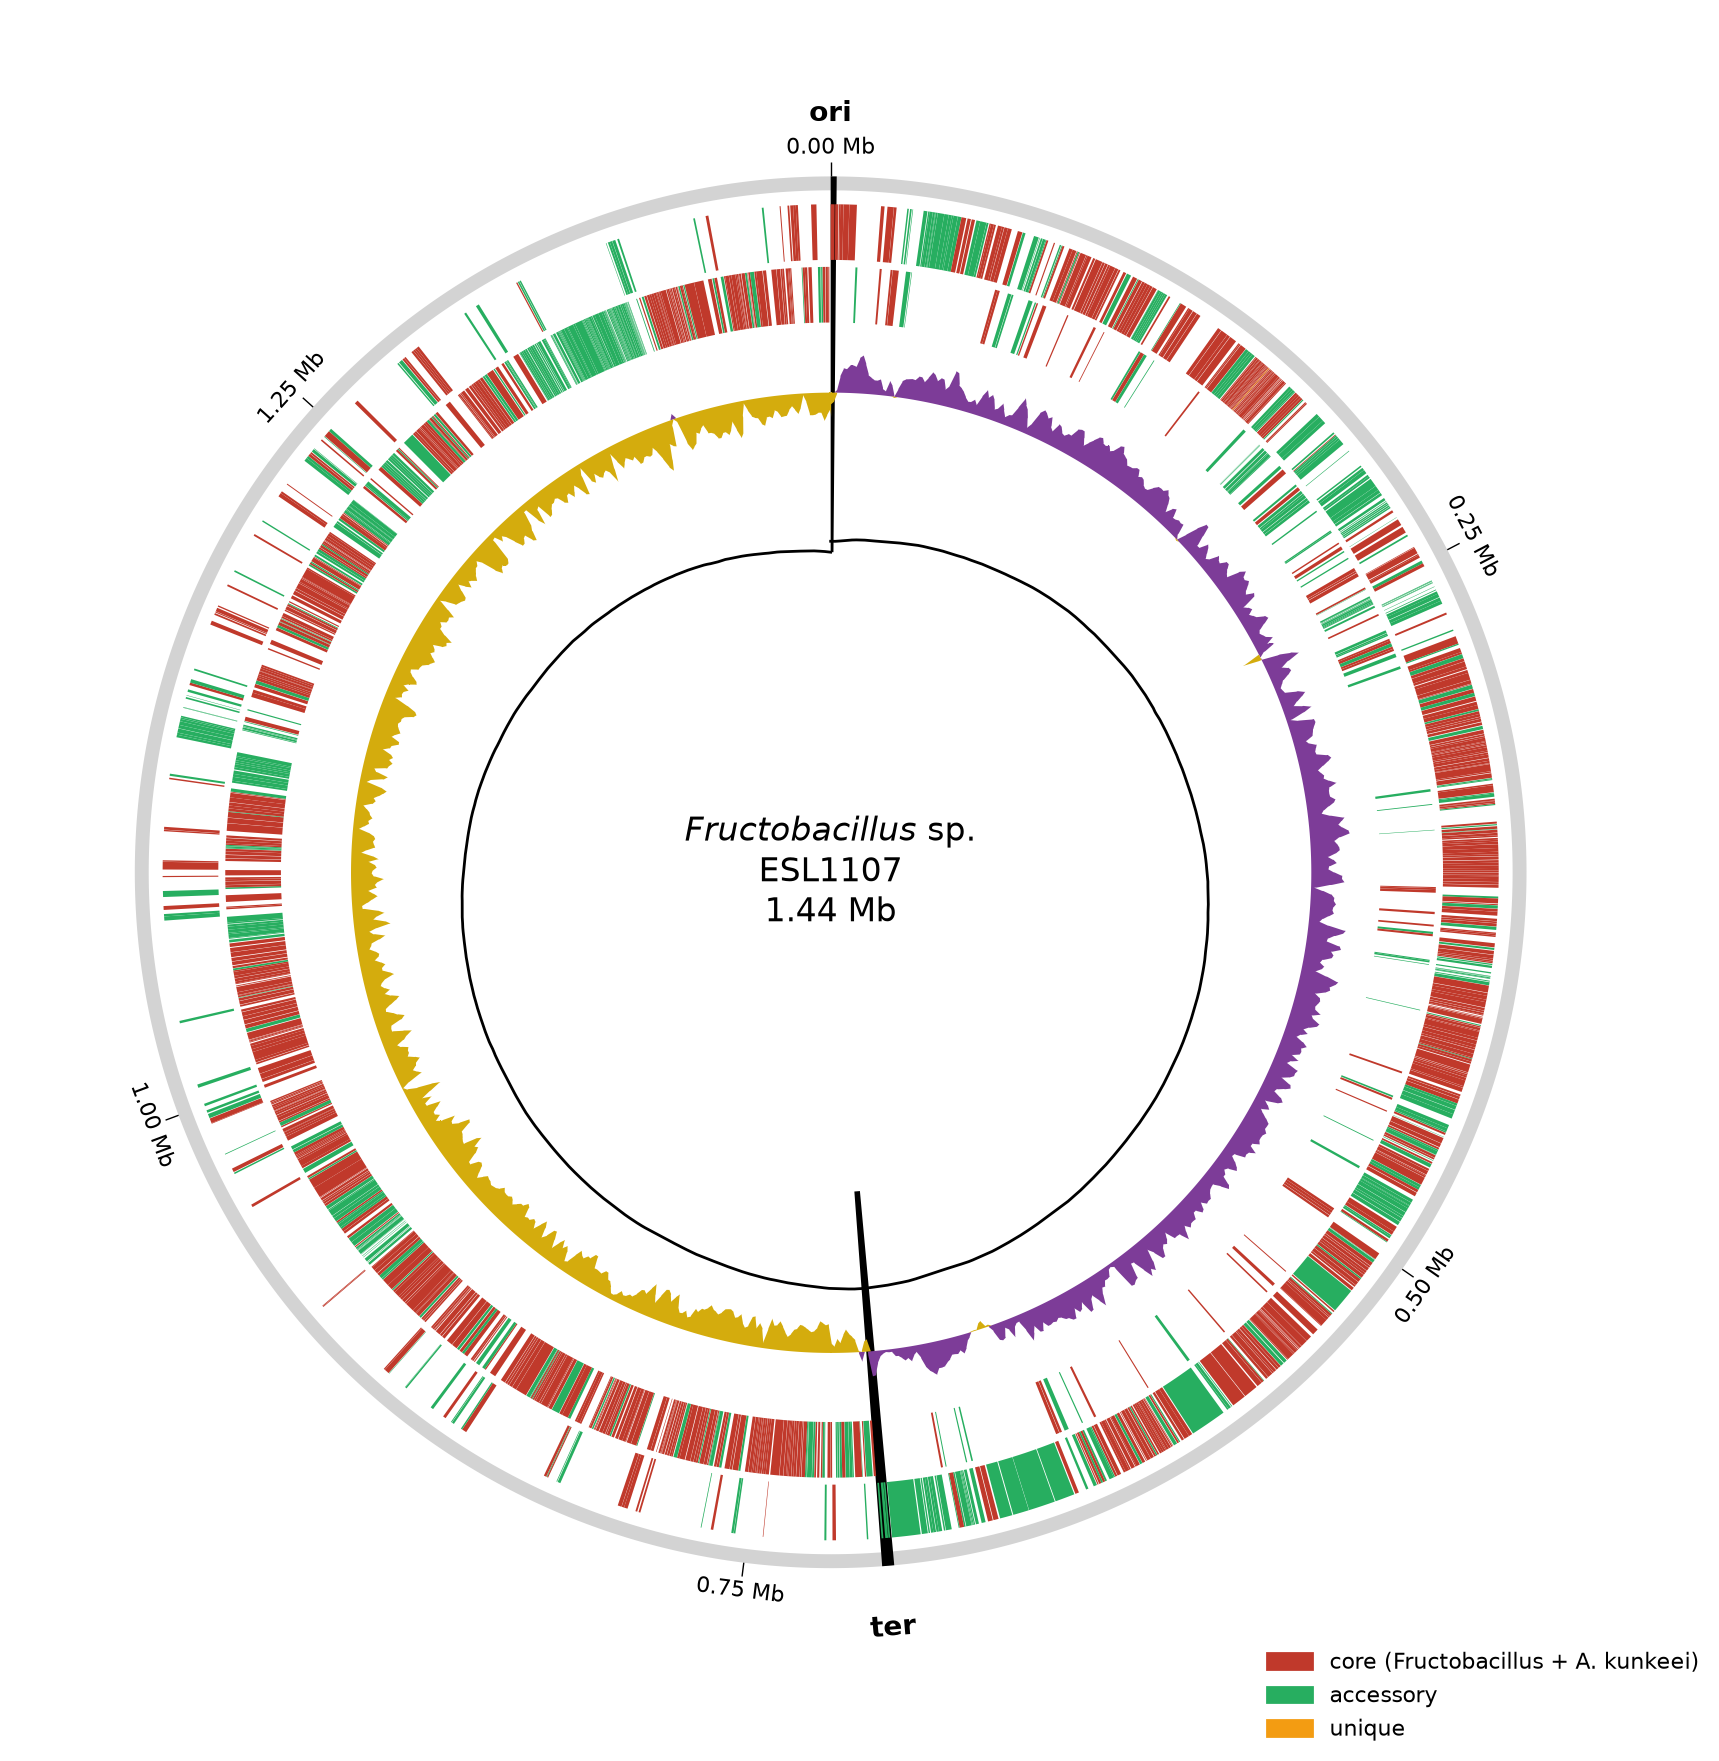
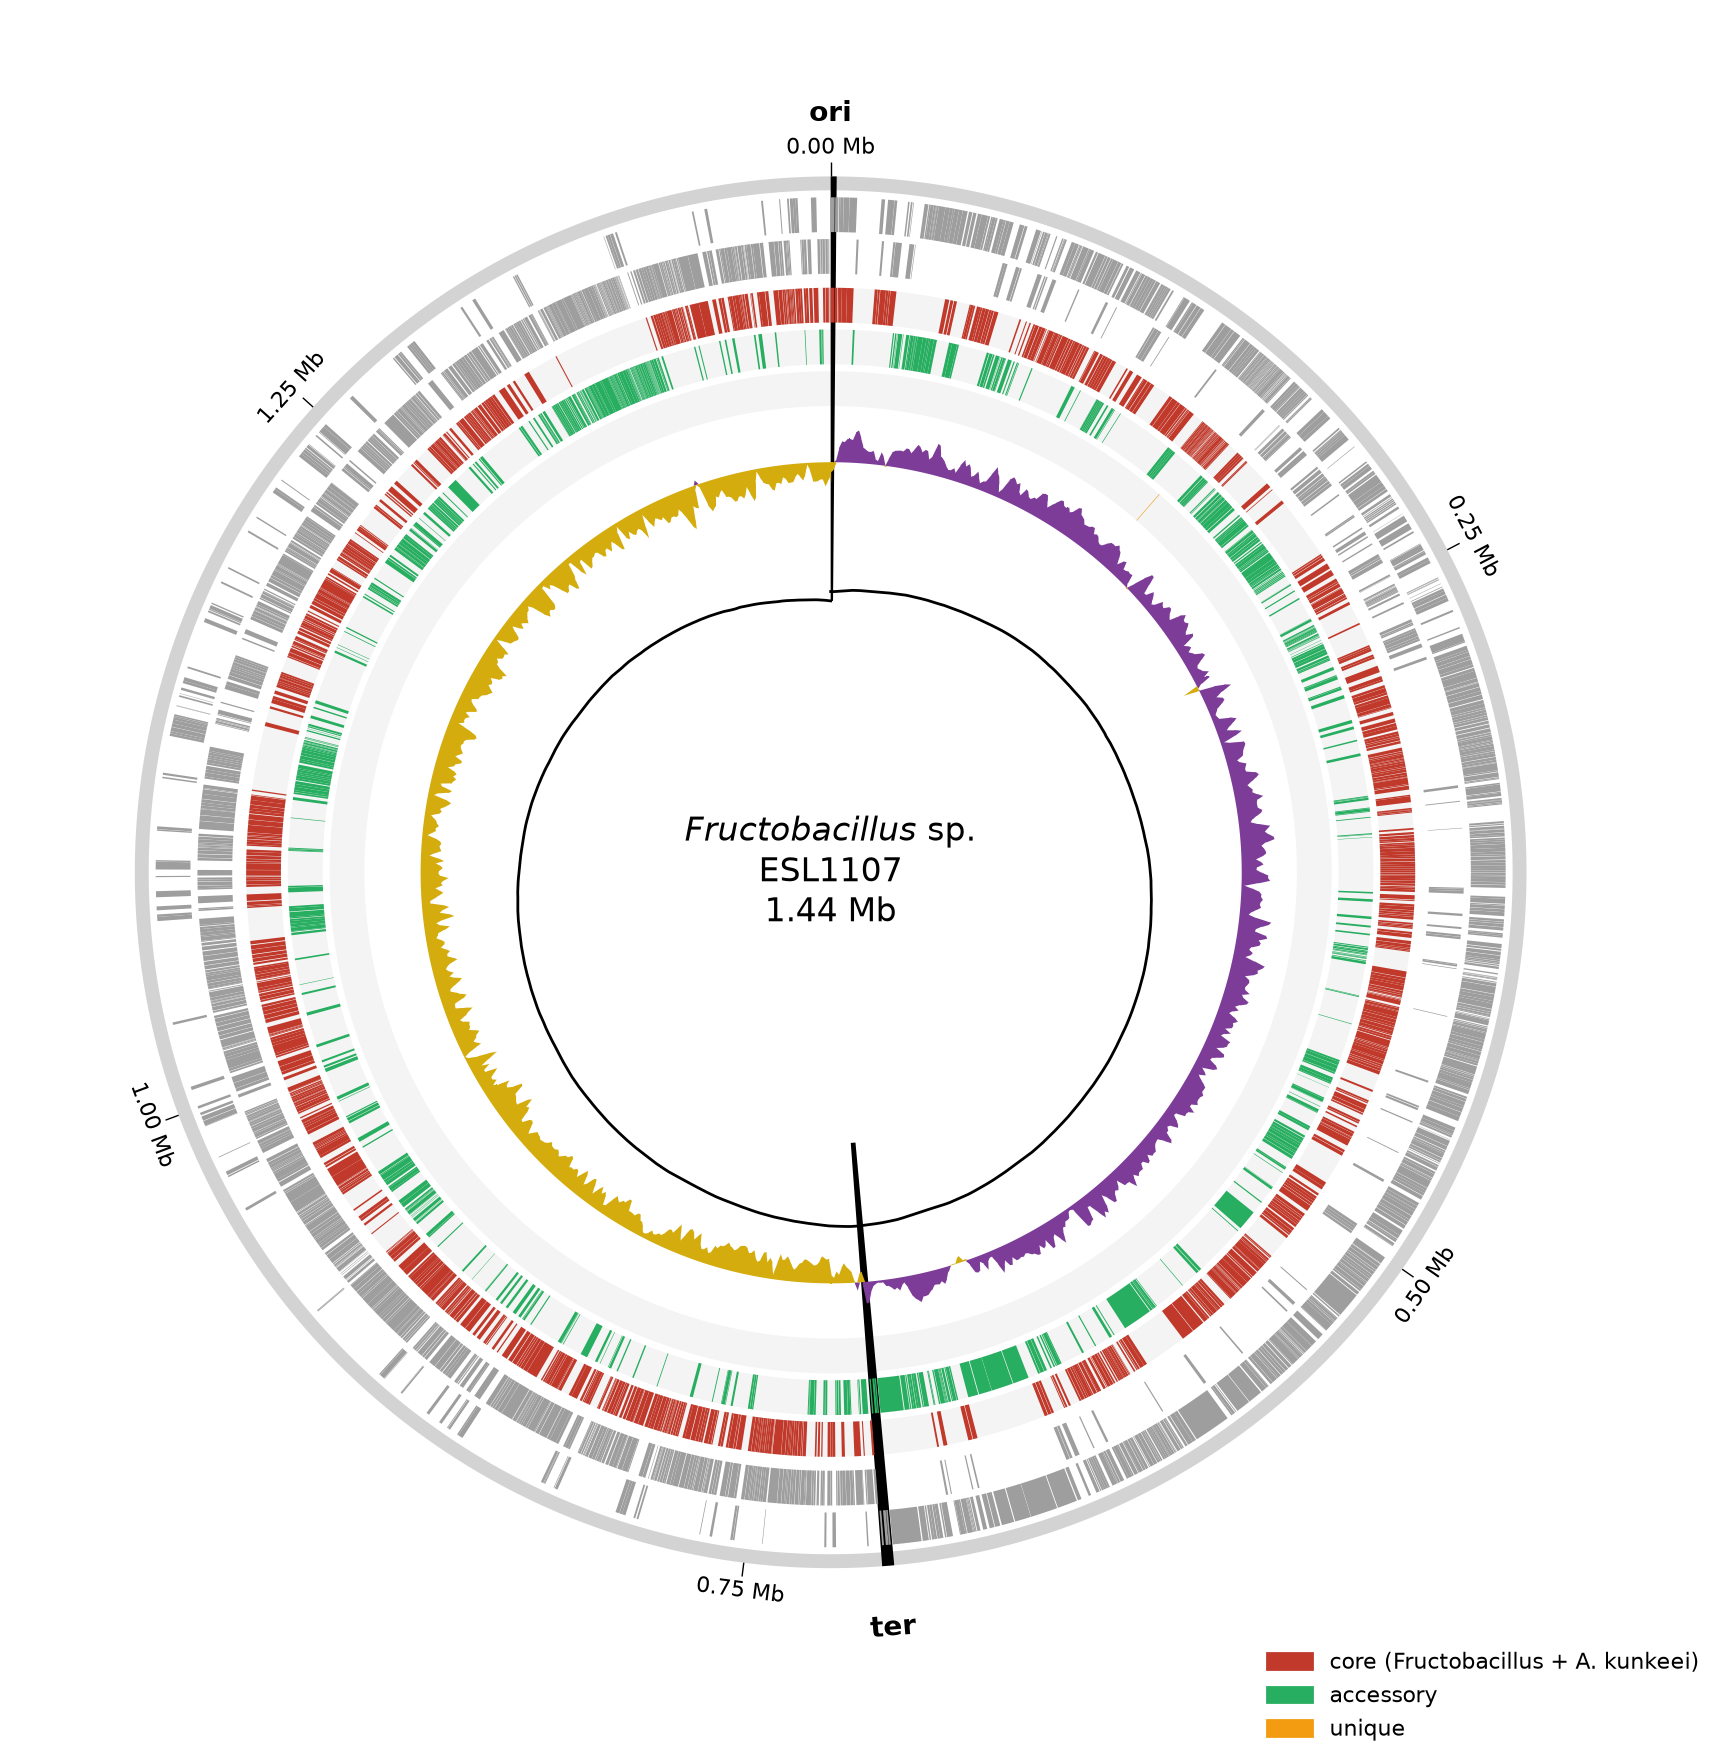
pyCirclize: ring layout + README

Changed region(s): [[0.0925, 0.0937, 0.8941, 0.8745], [0.4316, 0.3123, 0.4933, 0.3436]]

diff --git a/scripts/circlize.py b/scripts/circlize.py
@@ -22,7 +22,7 @@ from matplotlib.patches import Patch
 REPO = Path(__file__).resolve().parent.parent      # the Bee folder
 PROKKA = REPO / "results" / "prokka" / "fructo_reoriented"           # Prokka on dnaapler-reoriented genomes
 OF_FRUCTO = REPO / "results" / "orthofinder" / "of_fructo" / "Orthogroups"      # 8 Fructobacillus
-OF_FRUCTO_OG = REPO / "results" / "orthofinder" / "of_fructo_outgroup" / "Orthogroups"  # 8 Fructobacillus + LMES
+OF_FRUCTO_OG = REPO / "results" / "orthofinder" / "of_fructo_mes" / "Orthogroups"  # 8 Fructobacillus + LMES
 OUTGROUP = "GCF_000014445.1"
 # 8 Fructobacillus, strict core (8/8); plots + summary.tsv
 OUT = REPO / "results" / "pyCirclize" / "fructobacillus_core_8of8"
@@ -151,26 +151,36 @@ def plot_genome(genome):
     axis.axis(fc="lightgrey", ec="none")
     axis.xticks_by_interval(250_000, label_formatter=lambda v: f"{v/1e6:.2f} Mb")
 
-    #+ strand outside, - strand inside
-    fwd = sector.add_track((88, 96))
-    rev = sector.add_track((79, 87))
+    #Outer rings: all genes in grey, + strand outside, - strand inside
+    fwd = sector.add_track((92, 97))
+    rev = sector.add_track((86, 91))
     for g in genes.itertuples():
         track = fwd if g.strand == "+" else rev
-        track.rect(g.start - 1, g.end, fc=COLORS[g.category], lw=0)
+        track.rect(g.start - 1, g.end, fc="#9e9e9e", lw=0)
+
+    #Middle rings: one ring per gene category (both strands), in the legend order, outside -> inside
+    r_out, width, gap = 84, 5, 1
+    for cat, color in COLORS.items():
+        track = sector.add_track((r_out - width, r_out))
+        track.axis(fc="#f4f4f4", ec="none")            # faint background so empty rings stay visible
+        for g in genes[genes.category == cat].itertuples():
+            track.rect(g.start - 1, g.end, fc=color, lw=0)
+        r_out -= width + gap
+    r_in = r_out + gap                                   # inner edge of the last category ring
 
     #GC skew ring
     lim = np.abs(skew).max()
-    sk = sector.add_track((62, 76))
+    sk = sector.add_track((r_in - 14, r_in - 2))
     sk.fill_between(pos, np.where(skew > 0, skew, 0), vmin=-lim, vmax=lim, color="#7d3c98", lw=0)
     sk.fill_between(pos, np.where(skew < 0, skew, 0), vmin=-lim, vmax=lim, color="#d4ac0d", lw=0)
 
     #Cumulative skew, black line
-    cs = sector.add_track((46, 60))
+    cs = sector.add_track((r_in - 28, r_in - 16))
     cs.line(pos, cum_skew, vmin=cum_skew.min(), vmax=cum_skew.max(), color="black", lw=1)
 
     #Marks ori and ter
     for label, x in (("ori", ori), ("ter", ter)):
-        sector.rect(max(0, x - 2000), min(size, x + 2000), r_lim=(46, 100), fc="black", lw=0)
+        sector.rect(max(0, x - 2000), min(size, x + 2000), r_lim=(r_in - 28, 100), fc="black", lw=0)
         sector.text(label, x=x, r=107, size=10, fontweight="bold")
 
     #Puts the name and size in the centre, turns the circle into a matplotlib figure, adds the colour legend and saves the PNG

diff --git a/scripts/circlize_fructo_ak.py b/scripts/circlize_fructo_ak.py
@@ -147,26 +147,36 @@ def plot_genome(genome):
     axis.axis(fc="lightgrey", ec="none")
     axis.xticks_by_interval(250_000, label_formatter=lambda v: f"{v/1e6:.2f} Mb")
 
-    #+ strand outside, - strand inside
-    fwd = sector.add_track((88, 96))
-    rev = sector.add_track((79, 87))
+    #Outer rings: all genes in grey, + strand outside, - strand inside
+    fwd = sector.add_track((92, 97))
+    rev = sector.add_track((86, 91))
     for g in genes.itertuples():
         track = fwd if g.strand == "+" else rev
-        track.rect(g.start - 1, g.end, fc=COLORS[g.category], lw=0)
+        track.rect(g.start - 1, g.end, fc="#9e9e9e", lw=0)
+
+    #Middle rings: one ring per gene category (both strands), in the legend order, outside -> inside
+    r_out, width, gap = 84, 5, 1
+    for cat, color in COLORS.items():
+        track = sector.add_track((r_out - width, r_out))
+        track.axis(fc="#f4f4f4", ec="none")            # faint background so empty rings stay visible
+        for g in genes[genes.category == cat].itertuples():
+            track.rect(g.start - 1, g.end, fc=color, lw=0)
+        r_out -= width + gap
+    r_in = r_out + gap                                   # inner edge of the last category ring
 
     #GC skew ring
     lim = np.abs(skew).max()
-    sk = sector.add_track((62, 76))
+    sk = sector.add_track((r_in - 14, r_in - 2))
     sk.fill_between(pos, np.where(skew > 0, skew, 0), vmin=-lim, vmax=lim, color="#7d3c98", lw=0)
     sk.fill_between(pos, np.where(skew < 0, skew, 0), vmin=-lim, vmax=lim, color="#d4ac0d", lw=0)
 
     #Cumulative skew, black line
-    cs = sector.add_track((46, 60))
+    cs = sector.add_track((r_in - 28, r_in - 16))
     cs.line(pos, cum_skew, vmin=cum_skew.min(), vmax=cum_skew.max(), color="black", lw=1)
 
     #Marks ori and ter
     for label, x in (("ori", ori), ("ter", ter)):
-        sector.rect(max(0, x - 2000), min(size, x + 2000), r_lim=(46, 100), fc="black", lw=0)
+        sector.rect(max(0, x - 2000), min(size, x + 2000), r_lim=(r_in - 28, 100), fc="black", lw=0)
         sector.text(label, x=x, r=107, size=10, fontweight="bold")
 
     #Puts the name and size in the centre, turns the circle into a matplotlib figure, adds the colour legend and saves the PNG
@@ -188,4 +198,3 @@ summary = summary.reindex(columns=cols, fill_value=0)
 summary[list(COLORS)] = summary[list(COLORS)].astype(int)
 summary.to_csv(OUT / "summary.tsv", sep="\t", index=False)
 print(summary.to_string(index=False))
-

diff --git a/results/pyCirclize/fructobacillus_a_kunkeei_core_13of13/README.md b/results/pyCirclize/fructobacillus_a_kunkeei_core_13of13/README.md
@@ -5,3 +5,12 @@ A. kunkeei
 Fructobacillus:
 - Shared core genes (red): Spread fairly even around the chromosome?
 - No clear pattern
+
+8 Fructobacillus + 5 A. kunkeei (A0901, A1001, H3B1-04J, H4B5-05J, A1404). Categories from of_fructo_ak (13 genomes); no outgroup.
+
+Colour	Category
+red	    core (Fructobacillus + A. kunkeei): in all 13 genomes, any number of copies
+green	accessory: in 2-12 genomes
+orange	unique: in 1 genome, or unassigned
+
+Core = present in all genomes, any number of copies

diff --git a/results/pyCirclize/fructobacillus_core_8of8/README.md b/results/pyCirclize/fructobacillus_core_8of8/README.md
@@ -1,0 +1,9 @@
+8 Fructobacillus. Categories from of_fructo (8 genomes); split of the core by of_fructo_mes (8 + LMES).
+
+Colour	Category
+red	    Fructobacillus-specific core: in all 8 genomes, orthogroup absent from LMES
+blue	core, shared with outgroup: in all 8 genomes and in LMES
+green	accessory: in 2-7 genomes
+orange	unique: in 1 genome, or not assigned to any orthogroup
+
+Core = present in all genomes, any number of copies
